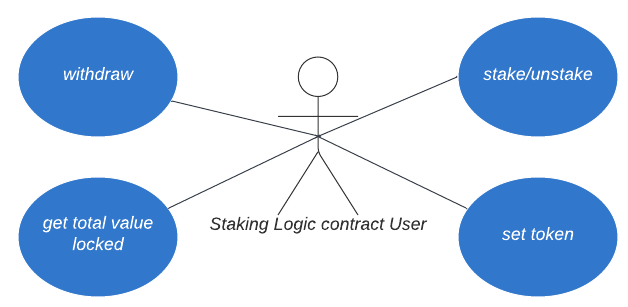
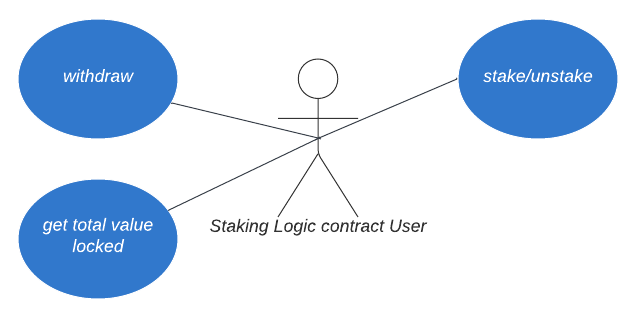
Audit docs (diagrams) update (#5)
diagrams updated

diff --git a/audit/staking_uc.md b/audit/staking_uc.md
@@ -1,4 +1,6 @@
-# Staking contracts use cases
+### Set storage manager (OZ AccessControl.sol)
+
+The Owner can set/update the address of the logic contract that is allowed to do CRUD operations. We use `OZ's AccessControl`.# Staking contracts use cases
 
 Status: <br>
 
@@ -18,13 +20,9 @@ Status: <br>
 
 A Manager (logic contract) can set/update the staking history of specified wallet.
 
-### Set token address `setToken()` _onlyOwner_
+### Set storage manager (OZ AccessControl.sol)
 
-An Owner can set/update the address of the token.
-
-### Set storage manager `setManager()` _onlyOwner_
-
-An Owner can set/update the address of the logic contract that is allowed to do CRUD operations.
+The Owner can set/update the address of the logic contract that is allowed to do CRUD operations. We use `OZ's AccessControl`.
 
 ### Pause (OZ Pausable.sol) `pause()` _onlyOwner_
 

diff --git a/audit/converter_uc.md b/audit/converter_uc.md
@@ -18,13 +18,9 @@ Status: <br>
 
 The Owner can set up a new mining period: start, finish, and token multipliers.
 
-### Set token address `setToken()` _onlyOwner_
+### Set storage manager (OZ AccessControl.sol)
 
-The Owner can set/update the address of the token.
-
-### Set storage manager `setManager()` _onlyOwner_
-
-The Owner can set/update the address of the logic contract that is allowed to do CRUD operations.
+The Owner can set/update the address of the logic contract that is allowed to do CRUD operations. We use `OZ's AccessControl`.
 
 ### Update Balance (CRUD operation) `updateBalance()` **_onlyManager_**
 
